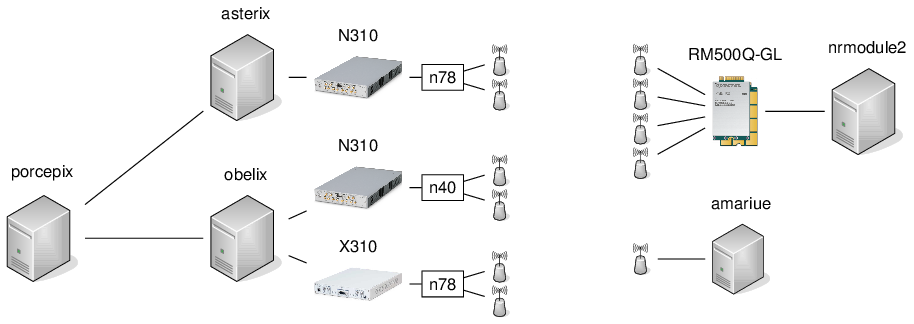
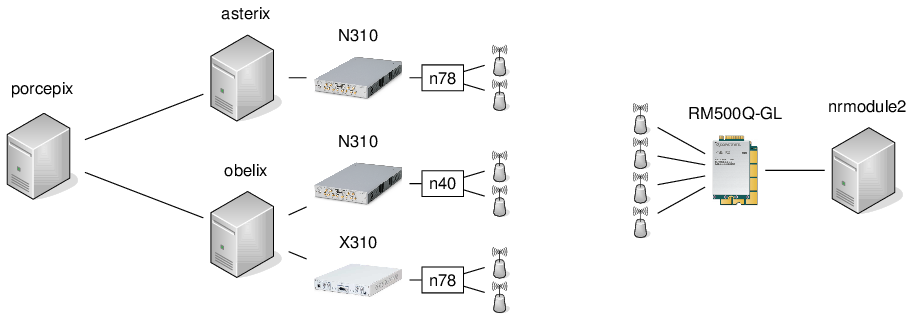
Update TESTBenches.md to reflect current stetup

diff --git a/doc/testbenches_doc_resources/5g-ota-bench.tex b/doc/testbenches_doc_resources/5g-ota-bench.tex
@@ -16,7 +16,7 @@
   \node[label=above:porcepix] (porcepix)
     {\includegraphics[width=1.2cm]{server}};
 
-  \node[above right=1cm and 2cm of porcepix, label=above:asterix] (asterix)
+  \node[above right=-0.4cm and 2cm of porcepix, label=above:asterix] (asterix)
     {\includegraphics[width=1.2cm]{server}}
     edge (porcepix);
   \node[right=0.3cm of asterix, label=above:N310] (n310a)
@@ -27,7 +27,7 @@
   \node[above right=-0.1cm and 0.35cm of b78o.east] (anto2)
     {\includegraphics[width=0.3cm]{antenna}} edge (b78o);
 
-  \node[right=2cm of porcepix, label=above:obelix] (obelix)
+  \node[below right=-0.4cm and 2cm of porcepix, label=above:obelix] (obelix)
     {\includegraphics[width=1.2cm]{server}}
     edge (porcepix);
   \node[above right=-0.5cm and 0.3cm of obelix, label=above:N310] (n310o)
@@ -45,7 +45,7 @@
   \node[above right=-0.1cm and 0.35cm of b78o.east] (anto2)
     {\includegraphics[width=0.3cm]{antenna}} edge (b78o);
 
-  \node[above right=-1.3cm and 5.0cm of n310a.east, label=above:RM500Q-GL] (quectel)
+  \node[above right=-0.5cm and 5.0cm of n310o.east, label=above:RM500Q-GL] (quectel)
     {\includegraphics[height=1.2cm]{quectel}};
   \node[above left=-0.1cm and 0.8cm of quectel.west] (aq2)
     {\includegraphics[width=0.3cm]{antenna}} edge (quectel);
@@ -58,11 +58,6 @@
   \node[right=1cm of quectel, label=above:nrmodule2] (nrmodule2)
     {\includegraphics[width=1.2cm]{server}}
     edge (quectel);
-
-  \node[above right=-0.3cm and 5.0cm of x310o.east, label=above:amariue] (amariue)
-    {\includegraphics[height=1.2cm]{server}};
-  \node[left=0.8cm of amariue.west] (aa1)
-    {\includegraphics[width=0.3cm]{antenna}} edge (amariue);
 
 \end{tikzpicture}
 \end{document}

diff --git a/doc/testbenches_doc_resources/5g-nsa-faraday-bench.tex b/doc/testbenches_doc_resources/5g-nsa-faraday-bench.tex
@@ -15,27 +15,24 @@
 
   \node[faraday, label={[anchor=south east]above right:Faraday cage}] (faraday) {};
 
-  \node[above left=0cm and 2.8cm of faraday, label=above:obelix] (obelix)
+  \node[above left=-0.50cm and 2.8cm of faraday, label=above:nepes] (nepes)
     {\includegraphics[width=1.2cm]{server}};
-  \node[right=0.3cm of obelix, label=above:B200-mini] (b210o)
-    {\includegraphics[width=1.2cm]{b200-mini}} edge (obelix);
+  \node[right=0.3cm of nepes, label=above:B200-mini] (b210o)
+    {\includegraphics[width=1.2cm]{b200-mini}} edge (nepes);
   \node[below right=0.35cm of faraday.north west] (anto)
     {\includegraphics[width=0.3cm]{antenna}};
   \draw (b210o) -| node [pos=0.2, duplexer] {B7} (anto);
 
-  \node[below left=0cm and 2.8cm of faraday, label=above:nepes] (nepes)
+  \node[below left=-0.50cm and 2.8cm of faraday, label=below:ofqot] (ofqot)
     {\includegraphics[width=1.2cm]{server}};
-  \node[right=0.3cm of nepes, label=above:B200-mini] (b210n)
-    {\includegraphics[width=1.2cm]{b200-mini}} edge (nepes);
-  \draw (obelix) -- (b210o);
+  \node[right=0.3cm of ofqot, label=above:B200-mini] (b210n)
+    {\includegraphics[width=1.2cm]{b200-mini}} edge (ofqot);
+  \draw (nepes) -- (b210o);
   \node[above right=0.35cm of faraday.south west] (antn)
     {\includegraphics[width=0.3cm]{antenna}};
   \draw (b210n) -| node [pos=0.2, duplexer] {n78} (antn);
 
-  \node[left=5cm of faraday, label=above:porcepix] (porcepix)
-    {\includegraphics[width=1.2cm]{server}};
-  \draw (obelix) -- (porcepix);
-  \draw (nepes) -- (porcepix);
+  \draw (nepes) -- (ofqot);
 
   \node[right=1.5cm of faraday, label=above:RM500Q-GL] (quectel)
     {\includegraphics[height=1.2cm]{quectel}};

diff --git a/doc/TESTBenches.md b/doc/TESTBenches.md
@@ -6,25 +6,25 @@
 
 | Machine       | IP address      | Lockable Resource     | Function           | Connected devices                                     |
 | ------------- | --------------- | --------------------- | ------------------ | ----------------------------------------------------- |
-| asterix       | 172.21.16.127   | CI-Asterix-Usage      | gNB (n78)          | 173.21.19.14                                          |
-| obelix        | 172.21.16.128   | CI-Obelix-Usage       | eNB (n40, n78), nrUE | 172.21.19.13, X300 (192.168.60.2), B200mini (30C51EB) |
-| porcepix      | 172.21.16.136   | CI-NSA-MiniBench      | Executor, EPC, 5GC | --                                                    |
-| nrmodule2     | 172.21.16.139   | CI-NSA-MiniBench      | Quectel            | Quectel module                                        |
-| nepes         | 172.21.16.137   | CI-NSA-MiniBench      | gNB (n78)          | B200mini (30C51D4)                                    |
+| asterix       | 172.21.16.127   | CI-Asterix-Usage      | gNB (n78)          | 172.21.19.14                                          |
+| obelix        | 172.21.16.128   | CI-Obelix-Usage       | eNB (n40, n78), nrUE | 172.21.19.13, X300 (192.168.60.2)                   |
+| porcepix      | 172.21.16.136   | CI-Porcepix           | Executor, EPC, 5GC | --                                                    |
+| nrmodule2     | 172.21.16.139   | CI-NrModule2          | Quectel            | Quectel module                                        |
+| nepes         | 172.21.16.137   | CI-Nepes              | gNB (n78), EPC/5GC | B200mini (30C51EB)                                    |
+| ofqot         | 172.21.16.109   | CI-Ofqot              | gNB (n78)          | B200mini (30C51D4)                                    |
+| idefix        | 172.21.16.135   | CI-Idefix             | Quectel            | Quectel module                                        |
 | caracal       | 172.21.16.132   | CI-Caracal            | gNB/phytest        | N300 (192.168.10.2)                                   |
-| idefix        | 172.21.16.135   | CI-NSA-MiniBench      | Quectel            | Quectel module                                        |
 | amariue       | 172.21.16.144   | CI-Amarisoft-UE-Usage | nrUE               | Amarisoft UE simulator                                |
-| bellatrix     | 192.168.117.115 | CI-RAN-VM-Deployment  | Executor           | --                                                    |
-| nano          | 172.21.18.48    | CI-Bench-1-Phones     | EPC, adb           | 2x COTS (adb)                                         |
-| hutch         | 172.21.18.46    | CI-Bench-1-Phones     | eNB (B7)           | B200mini (30C5239)                                    |
-| starsky       | 172.21.18.45    | CI-Bench-1-Phones     | eNB (B40)          | b200mini (30A3E3C)                                    |
-| carabe        | 172.21.18.47    | CI-Bench-2-OAI-Phone  | UE (B7UE)          | B200mini (30AE8C9)                                    |
+| manarola      | 172.21.8.116    | _None_                | gNB                | AW2S                                                  |
+| nano          | 172.21.18.48    | CI-Nano-Legacy-EPC    | Executor, EPC, adb | 2x COTS (adb)                                         |
+| hutch         | 172.21.18.46    | CI-Hutch-Legacy-FDD-eNB | eNB (B7)           | B200mini (30C5239)                                  |
+| starsky       | 172.21.18.45    | CI-Starsky-Legacy-TDD-eNB       | eNB (B40)  | b200mini (30A3E3C)                                  |
+| carabe        | 172.21.18.47    | CI-Carabe-Legacy-FDD-OAI-LTE-UE | UE (B7UE)  | B200mini (30AE8C9)                                  |
+| nokiabox      | 172.21.19.39    | _None_                | gNB (Nokia), 5GC   | _Nokia RF integrated_                                 |
 
 Note: The available resources, and their current usage, is indicated here:
 - [Lockable resources of jenkins-oai](https://jenkins-oai.eurecom.fr/lockable-resources/):
   "New" Jenkins, i.e., with RAN-Container-Parent
-- [Lockable resources of open5glab jenkins](https://open5glab.eurecom.fr:8083/jenkins/lockable-resources/):
-  "Old" Jenkins, i.e., with RAN-CI-Develop
 
 ## Networked devices
 
@@ -35,36 +35,38 @@ Note: The available resources, and their current usage, is indicated here:
 
 ## Testbenches
 
-### OTA Testbench
+### 5G OTA Testbench
 
-**Purpose**: Over-the-air 4G/5G (NSA/SA) tests
-
-Note: obelix and porcepix are both used in the OTA testbench and the 5G
-NSA/Faraday Cage testbench!
+**Purpose**: Over-the-air 4G/5G (NSA/SA) tests, performance tests
 
 ![5G OTA Testbench](testbenches_doc_resources/5g-ota-bench.png)
 
 [PDF version](testbenches_doc_resources/5g-ota-bench.pdf) | [LaTeX/TikZ version](testbenches_doc_resources/5g-ota-bench.tex) if you want to modify to reflect your setup
 
+
 ### 5G NSA/Faraday Cage Testbench
 
-**Purpose**: Faraday cage 5G tests
-
-Note: obelix and porcepix are both used in the OTA testbench and the 5G
-NSA/Faraday Cage testbench!
+**Purpose**: Faraday cage 5G tests, functional tests
 
 ![5G NSA/Faraday Cage Testbench](testbenches_doc_resources/5g-nsa-faraday-bench.png)
 
 [PDF version](testbenches_doc_resources/5g-nsa-faraday-bench.pdf) | [LaTeX/TikZ version](testbenches_doc_resources/5g-nsa-faraday-bench.tex) if you want to modify to reflect your setup
 
+### 5G AW2S Testbench
+
+**Purpose**: AW2S tests with Amarisoft
+
+Picture: TBD
+
+
 ### 4G Testbench(es)
 
 **Purpose**: 4G/LTE testbenches
 
-
 ![4G Faraday Cage Testbench](testbenches_doc_resources/4g-faraday-bench.png)
 
 [PDF version](testbenches_doc_resources/4g-faraday-bench.pdf) | [LaTeX/TikZ version](testbenches_doc_resources/4g-faraday-bench.tex) if you want to modify to reflect your setup
+
 
 ## Pipelines
 
@@ -76,50 +78,48 @@ Webhook
 - [RAN-cppcheck](https://jenkins-oai.eurecom.fr/job/RAN-cppcheck/1664/)
   - obelix
   - performs static code analysis, currently not actively enforced
-- [RAN-gNB-nrUE-MONO-TDD-Band78-N300](https://jenkins-oai.eurecom.fr/job/RAN-gNB-nrUE-MONO-TDD-Band78-N300/)
+- [RAN-gNB-N300-Timing-Phytest-LDPC](https://jenkins-oai.eurecom.fr/view/RAN/job/RAN-gNB-N300-Timing-Phytest-LDPC/)
   - caracal + N310
-  - pure performance test through phy-test scheduler, see command line for more
-    details
+  - pure performance test through phy-test scheduler, see command line for more details
 - [RAN-L2-Sim-Test-5G](https://jenkins-oai.eurecom.fr/job/RAN-L2-Sim-Test-4G/)
   - obelix (eNB, 1x UE, OAI EPC)
   - L2simulator: skips physical layer and uses proxy between eNB and UE
 - [RAN-L2-Sim-Test-5G](https://jenkins-oai.eurecom.fr/job/RAN-L2-Sim-Test-5G/)
   - obelix (gNB, 1x UE, OAI 5GC)
-  - L2simulator: skips physical layer and uses proxy between gNB and UE,
-    currently only ping
+  - L2simulator: skips physical layer and uses proxy between gNB and UE, currently only ping
+- [RAN-LTE-FDD-LTEBOX-Container](https://jenkins-oai.eurecom.fr/job/RAN-LTE-FDD-LTEBOX-Container/)
+  - hutch + B210, nano w/ ltebox + 2x UE
+  - tests RRC inactivity timers, different bandwidths
+- [RAN-LTE-TDD-LTEBOX-Container](https://jenkins-oai.eurecom.fr/job/RAN-LTE-TDD-LTEBOX-Container/)
+  - starsky + B210, nano w/ ltebox + 2x UE
+  - TM1 over bandwidths 5, 10, 20 MHz in Band 40, default scheduler for 20 MHz
 - [RAN-NSA-B200-Module-LTEBOX-Container](https://jenkins-oai.eurecom.fr/job/RAN-NSA-B200-Module-LTEBOX-Container/)
-  - obelix + B200, nepes + B200, idefix + Quectel, porcepix w/ ltebox
+  - nepes + B200 (eNB), ofqot + B200 (gNB), idefix + Quectel, nepes w/ ltebox
   - basic NSA test
-- [RAN-SA-B200-Module-SABOX-Container](https://jenkins-oai.eurecom.fr/job/RAN-SA-B200-Module-SABOX-Container/)
-  - obelix + B200, nepes + B200, idefix + Quectel, porcepix w/ sabox
-  - basic SA test (40 MHz TDD)
 - [RAN-PhySim-Cluster](https://jenkins-oai.eurecom.fr/job/RAN-PhySim-Cluster/)
-  - poseidon (jumphost, `Asterix-OC-oaicicd-session` resource), tests in
-    OpenShift Cluster
+  - cluster (`Asterix-OC-oaicicd-session` resource), tests in OpenShift Cluster
   - unitary simulators (`nr_dlsim`, etc.)
 - [RAN-RF-Sim-Test-4G](https://jenkins-oai.eurecom.fr/job/RAN-RF-Sim-Test-4G/)
-  - obelix (eNB, 1x UE, OAI EPC)
+  - obelix (eNB, lteUE, OAI EPC)
   - uses RFsimulator, for FDD 5, 10, 20MHz with core, 5MHz noS1
 - [RAN-RF-Sim-Test-5G](https://jenkins-oai.eurecom.fr/job/RAN-RF-Sim-Test-5G/)
-  - obelix (gNB, 2x UE, OAI 5GC)
+  - obelix (gNB, nrUE, OAI 5GC)
   - uses RFsimulator, TDD 40MHz, FDD 40MHz, F1 split
 - [RAN-RHEL8-Cluster-Image-Builder](https://jenkins-oai.eurecom.fr/job/RAN-RHEL8-Cluster-Image-Builder/)
-  - poseidon (jumphost, `Asterix-OC-oaicicd-session` resource): RHEL 8 image
-    build using the OpenShift Cluster
-- [RAN-Ubuntu18-Image-Builder](https://jenkins-oai.eurecom.fr/job/RAN-Ubuntu18-Image-Builder/)
-  - obelix: Ubuntu 18 image build using docker
+  - cluster (`Asterix-OC-oaicicd-session` resource): RHEL 8 image build using the OpenShift Cluster
+- [RAN-SA-B200-Module-SABOX-Container](https://jenkins-oai.eurecom.fr/job/RAN-SA-B200-Module-SABOX-Container/)
+  - ofqot + B200, idefix + Quectel, nepes w/ sabox
+  - basic SA test (20 MHz TDD), F1, reestablishment, ...
+- [RAN-Ubuntu20-Image-Builder](https://jenkins-oai.eurecom.fr/job/RAN-Ubuntu18-Image-Builder/)
+  - obelix: Ubuntu 20 image build using docker (Note: builds U20 images while pipeline is named U18!)
 
-### [RAN-CI-NSA-Trigger](https://jenkins-oai.eurecom.fr/view/RAN/job/RAN-CI-NSA-Trigger/)
+### RAN-CI-NSA-Trigger
 
-**Purpose**: longer-running over-the-air LTE, NSA, and SA tests, triggered
-through cron job at midnight
+***DEFUNCT***: longer-running over-the-air LTE, NSA, and SA tests. To be integrated into RAN-Container-Parent.
 
 - [RAN-LTE-2x2-Module-OAIEPC](https://jenkins-oai.eurecom.fr/job/RAN-LTE-2x2-Module-OAIEPC/)
   - obelix + N310, nrmodule2 + Quectel, porcepix w/ Magma EPC
   - LTE 2x2 test with TM1 and TM2
-- [RAN-NSA-B200-Module-LTEBOX](https://jenkins-oai.eurecom.fr/job/RAN-NSA-B200-Module-LTEBOX/)
-  - obelix + B200 (eNB), nepes + B200 (gNB), idefix + Quectel, porcepix w/ ltebox
-  - Note: like [RAN-NSA-B200-Module-LTEBOX-Container](https://jenkins-oai.eurecom.fr/job/RAN-NSA-B200-Module-LTEBOX-Container/) above, but compiled/run from source
 - [RAN-NSA-2x2-Module-OAIEPC](https://jenkins-oai.eurecom.fr/job/RAN-NSA-2x2-Module-OAIEPC/)
   - obelix + N310 (eNB), asterix + N310 (gNB), nrmodule2 + Quectel, porcepix w/ Magma EPC
   - LTE 2x2 and NR 2x2 (non-standalone)
@@ -133,32 +133,22 @@ through cron job at midnight
   - asterix + N310, amariue (1x UE), porcepix w/ OAI 5GC
   - Amarisoft UE simulator: expected to be increased to more UEs
 
-### [RAN-CI-develop](https://open5glab.eurecom.fr:8083/jenkins/job/RAN-CI-develop/)
+### RAN-CI-develop
 
-**Purpose**: automatically triggered tests, mostly 4G, to be phased out and
+***DEFUNCT***: automatically triggered tests, mostly 4G, to be phased out and
 integrated into RAN-Container-Parent
 
-runs tests:
-- bellatrix: runs 4G/5G simulators directly (eNB + 1x UE + (opt.) OAI EPC, gNB + 1x UE in "noS1")
-
-triggers pipelines:
-- [eNB-CI-FDD-Band7-B210](https://open5glab.eurecom.fr:8083/jenkins/job/eNB-CI-FDD-Band7-B210/)
-  - hutch + B210, nano w/ ltebox + 2x UE
-  - tests T tracer, RRC inactivity timers, different bandwidths
-- [eNB-CI-IF4p5-FDD-Band7-B210](https://open5glab.eurecom.fr:8083/jenkins/job/eNB-CI-IF4p5-FDD-Band7-B210/)
+The following defunct pipelines remain to be integrated into RAN-Container-Parent:
+- eNB-CI-IF4p5-FDD-Band7-B210
   - hutch + B210, nano w/ ltebox + 2x UE
   - tests IF4.5 split over bandwidths 5, 10, 20 MHz in Band 7
-- [eNB-CI-IF4p5-TDD-Band40-B210](https://open5glab.eurecom.fr:8083/jenkins/job/eNB-CI-IF4p5-TDD-Band40-B210/)
+- eNB-CI-IF4p5-TDD-Band40-B210
   - starsky + B210, nano w/ ltebox + 2x UE
   - tests IF4.5 split over bandwidths 5, 10, 20 MHz in Band 40
-- [eNB-CI-TDD-Band40-B210](https://open5glab.eurecom.fr:8083/jenkins/job/eNB-CI-TDD-Band40-B210/)
-  - starsky + B210, nano w/ ltebox + 2x UE
-  - T tracer, TM1 over bandwidths 5, 10, 20 MHz in Band 40, default scheduler
-    for 20 MHz
-- [eNB-UE-CI-MONO-FDD-Band7-B200](https://open5glab.eurecom.fr:8083/jenkins/job/eNB-UE-CI-MONO-FDD-Band7-B200/)
+- eNB-UE-CI-MONO-FDD-Band7-B200
   - hutch + B210 (eNB), carabe + B210 (4G UE), nano w/ ltebox
   - tests OAI 4G for 5 MHz/TM1 with both CN and in noS1 model, MBMS; known to
     be unstable
-- [UE-CI-FDD-Band20-B200](https://open5glab.eurecom.fr:8083/jenkins/job/UE-CI-FDD-Band20-B200/)
+- UE-CI-FDD-Band20-B200
   - starsky + B210 (sniffer)
   - Sniff MIB + SIB1 of Orange, SFR
